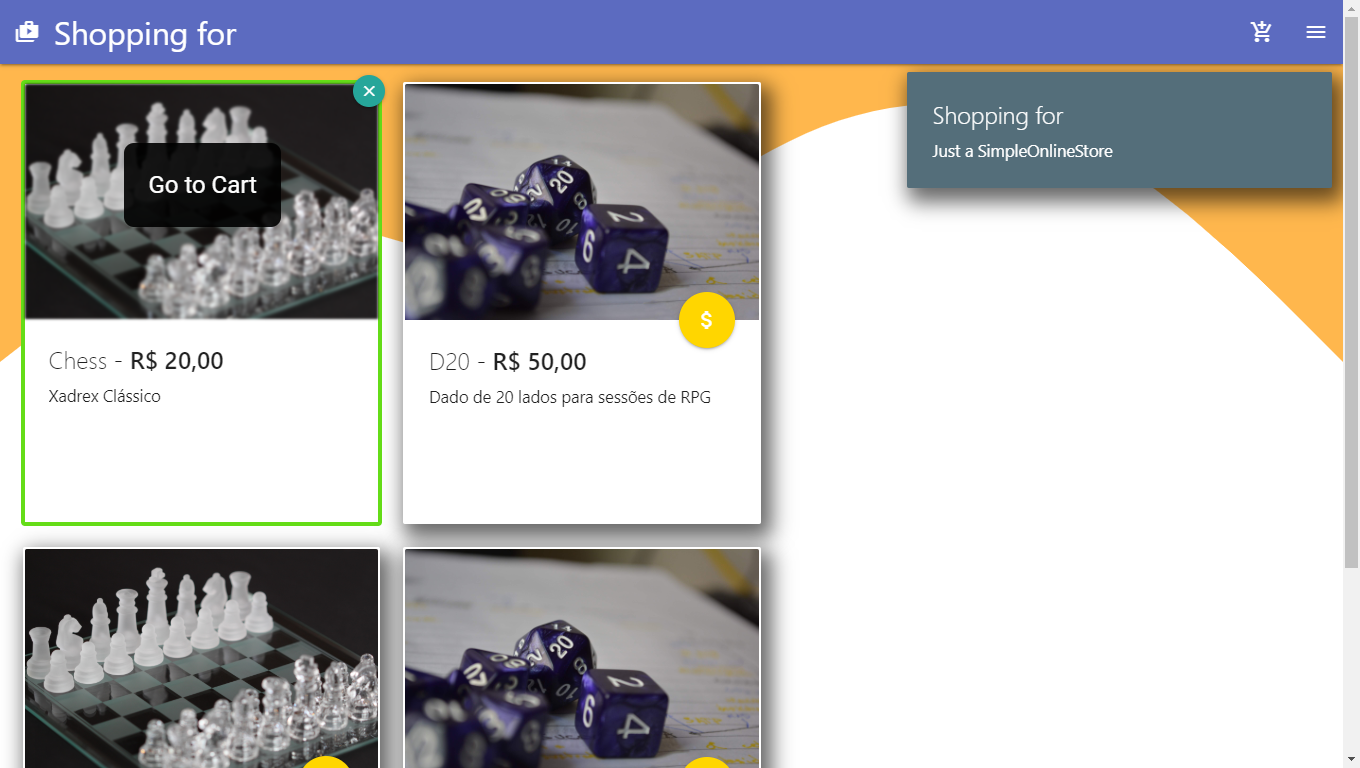
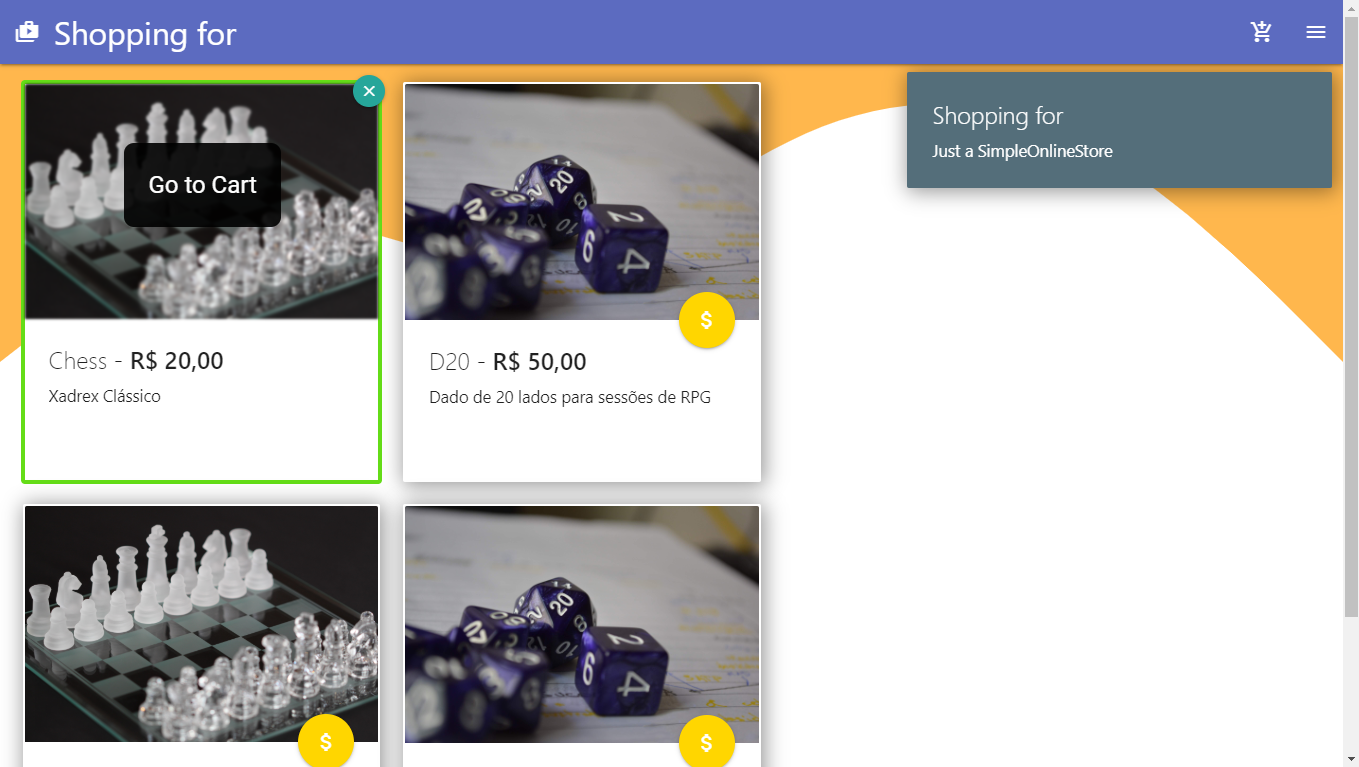
Cards mod style; materialize-css

diff --git a/web/public/index.html b/web/public/index.html
@@ -25,7 +25,6 @@
       Learn how to configure a non-root public URL by running `npm run build`.
     -->
     <!-- Materialize -->
-    <link rel="stylesheet" href="https://cdnjs.cloudflare.com/ajax/libs/materialize/1.0.0/css/materialize.min.css" />
     <link href="https://fonts.googleapis.com/icon?family=Material+Icons" rel="stylesheet" />
     
     <title>React App</title>
@@ -33,7 +32,6 @@
   <body>
     <noscript>You need to enable JavaScript to run this app.</noscript>
     <div id="root"></div>
-    <script src="https://cdnjs.cloudflare.com/ajax/libs/materialize/1.0.0/js/materialize.min.js"></script>
     <!--
       This HTML file is a template.
       If you open it directly in the browser, you will see an empty page.

diff --git a/web/src/App.js b/web/src/App.js
@@ -1,9 +1,15 @@
 import React from 'react';
+import 'materialize-css/dist/css/materialize.min.css';
+
+import M from 'materialize-css'
 import './App.css';
 
 import Routes from './routes'
 
 function App() {
+
+  M.AutoInit();
+
   return (
     <>
       <Routes />

diff --git a/web/src/App.css b/web/src/App.css
@@ -13,7 +13,7 @@ body {
 }
 
 .card {
-  box-shadow: 6px 9px 20px 5px rgba(0, 0, 0, 0.6);
+  box-shadow: 2px 2px 20px 2px rgba(0, 0, 0, 0.4);
 }
 
 #card-grid {
